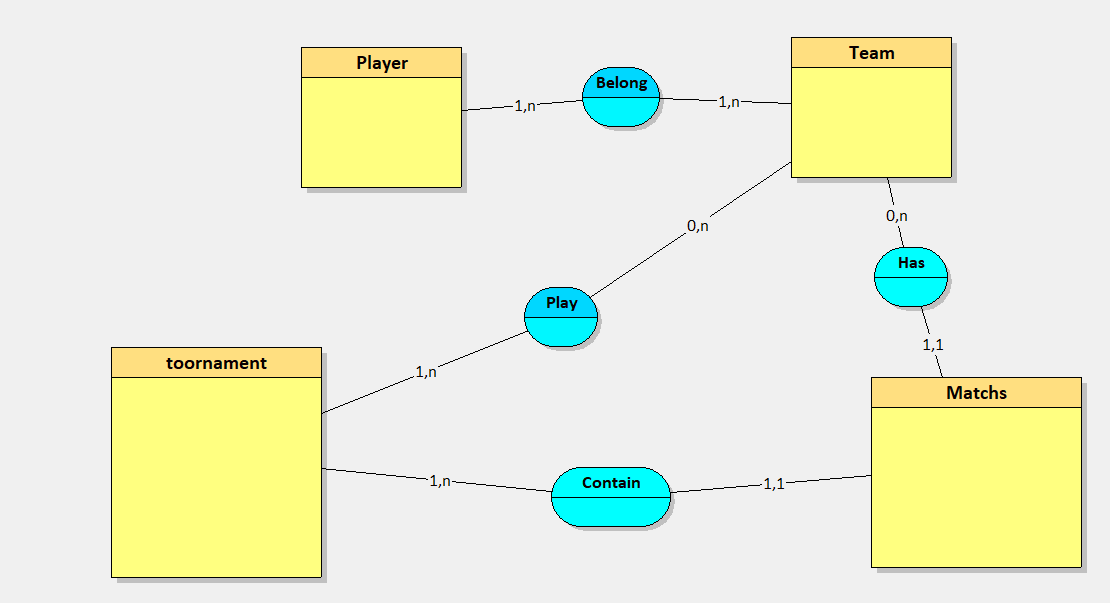
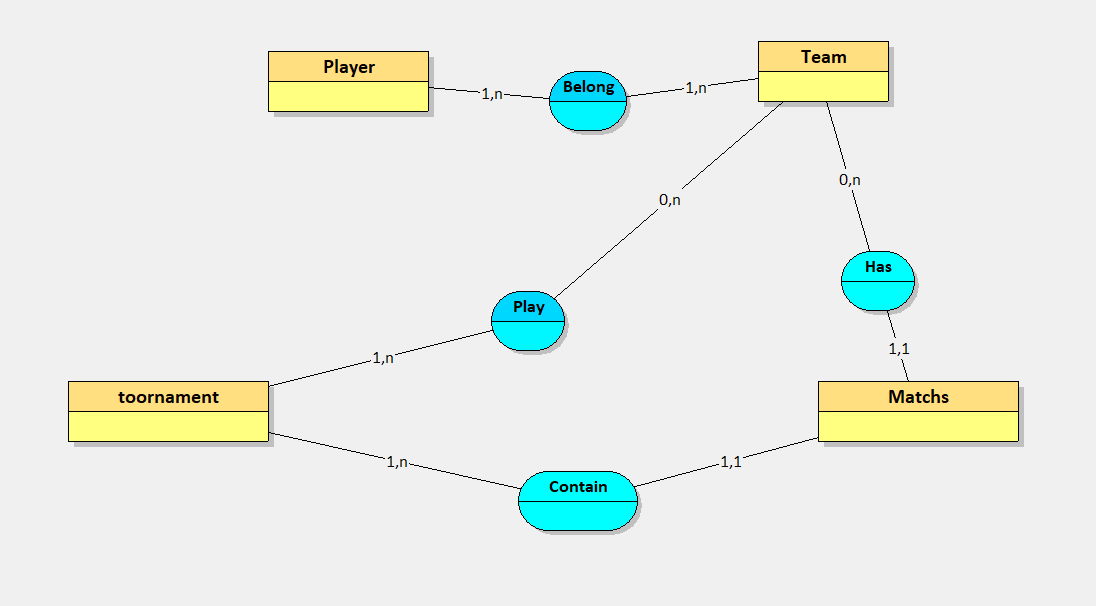
changement après entrevue avec le prof
changement diagram ER et langue mis en anglais pr toutes les pages

diff --git a/webapp_clientside/src/components/Team.vue b/webapp_clientside/src/components/Team.vue
@@ -1,6 +1,6 @@
 <template>
   <div class="team-card-container">
-    <h1>Liste des Équipes</h1>
+    <h1>List of Teams</h1>
     <div class="team-cards-wrapper">
       <div class="team-card" v-for="team in teams" :key="team.team_id">
         <div class="team-card-inner">
@@ -9,10 +9,10 @@
             <p><strong>Coach :</strong> {{ team.team_coach }}</p>
           </div>
           <div class="team-card-back">
-            <p><strong>Capitaine :</strong> {{ team.team_captain }}</p>
-            <p><strong>Date de création :</strong> {{ team.team_creation_date }}</p>
+            <p><strong>Captain :</strong> {{ team.team_captain }}</p>
+            <p><strong>Date of creation :</strong> {{ team.team_creation_date }}</p>
             <p><strong>Localisation :</strong> {{ team.team_location }}</p>
-            <p><strong>Nombre de joueurs :</strong> {{ team.team_number }}</p>
+            <p><strong>Number of players :</strong> {{ team.team_number }}</p>
           </div>
         </div>
       </div>

diff --git a/webapp_clientside/src/components/Players.vue b/webapp_clientside/src/components/Players.vue
@@ -1,6 +1,6 @@
 <template>
     <div class="card-container" >
-      <h1>Liste des Joueurs</h1>
+      <h1>List of Players</h1>
       <div class="cards-wrapper">
         <div class="card" v-for="player in players" :key="player.player_id">
           <div class="card-inner">
@@ -9,8 +9,8 @@
             </div>
             <div class="card-back">
               <p><strong>Email :</strong> {{ player.player_mail }}</p>
-              <p><strong>Âge :</strong> {{ player.player_age }}</p>
-              <p><strong>Téléphone :</strong> {{ player.player_phone_number }}</p>
+              <p><strong>Age :</strong> {{ player.player_age }}</p>
+              <p><strong>Telephone Number :</strong> {{ player.player_phone_number }}</p>
             </div>
           </div>
         </div>

diff --git a/webapp_clientside/src/components/Match.vue b/webapp_clientside/src/components/Match.vue
@@ -1,6 +1,6 @@
 <template>
     <div class="card-container" >
-      <h1>Liste des Matchs</h1>
+      <h1>List of the Matchs</h1>
       <div class="cards-wrapper">
         <div class="card" v-for="match in matches" :key="match.match_id">
           <div class="card-inner">
